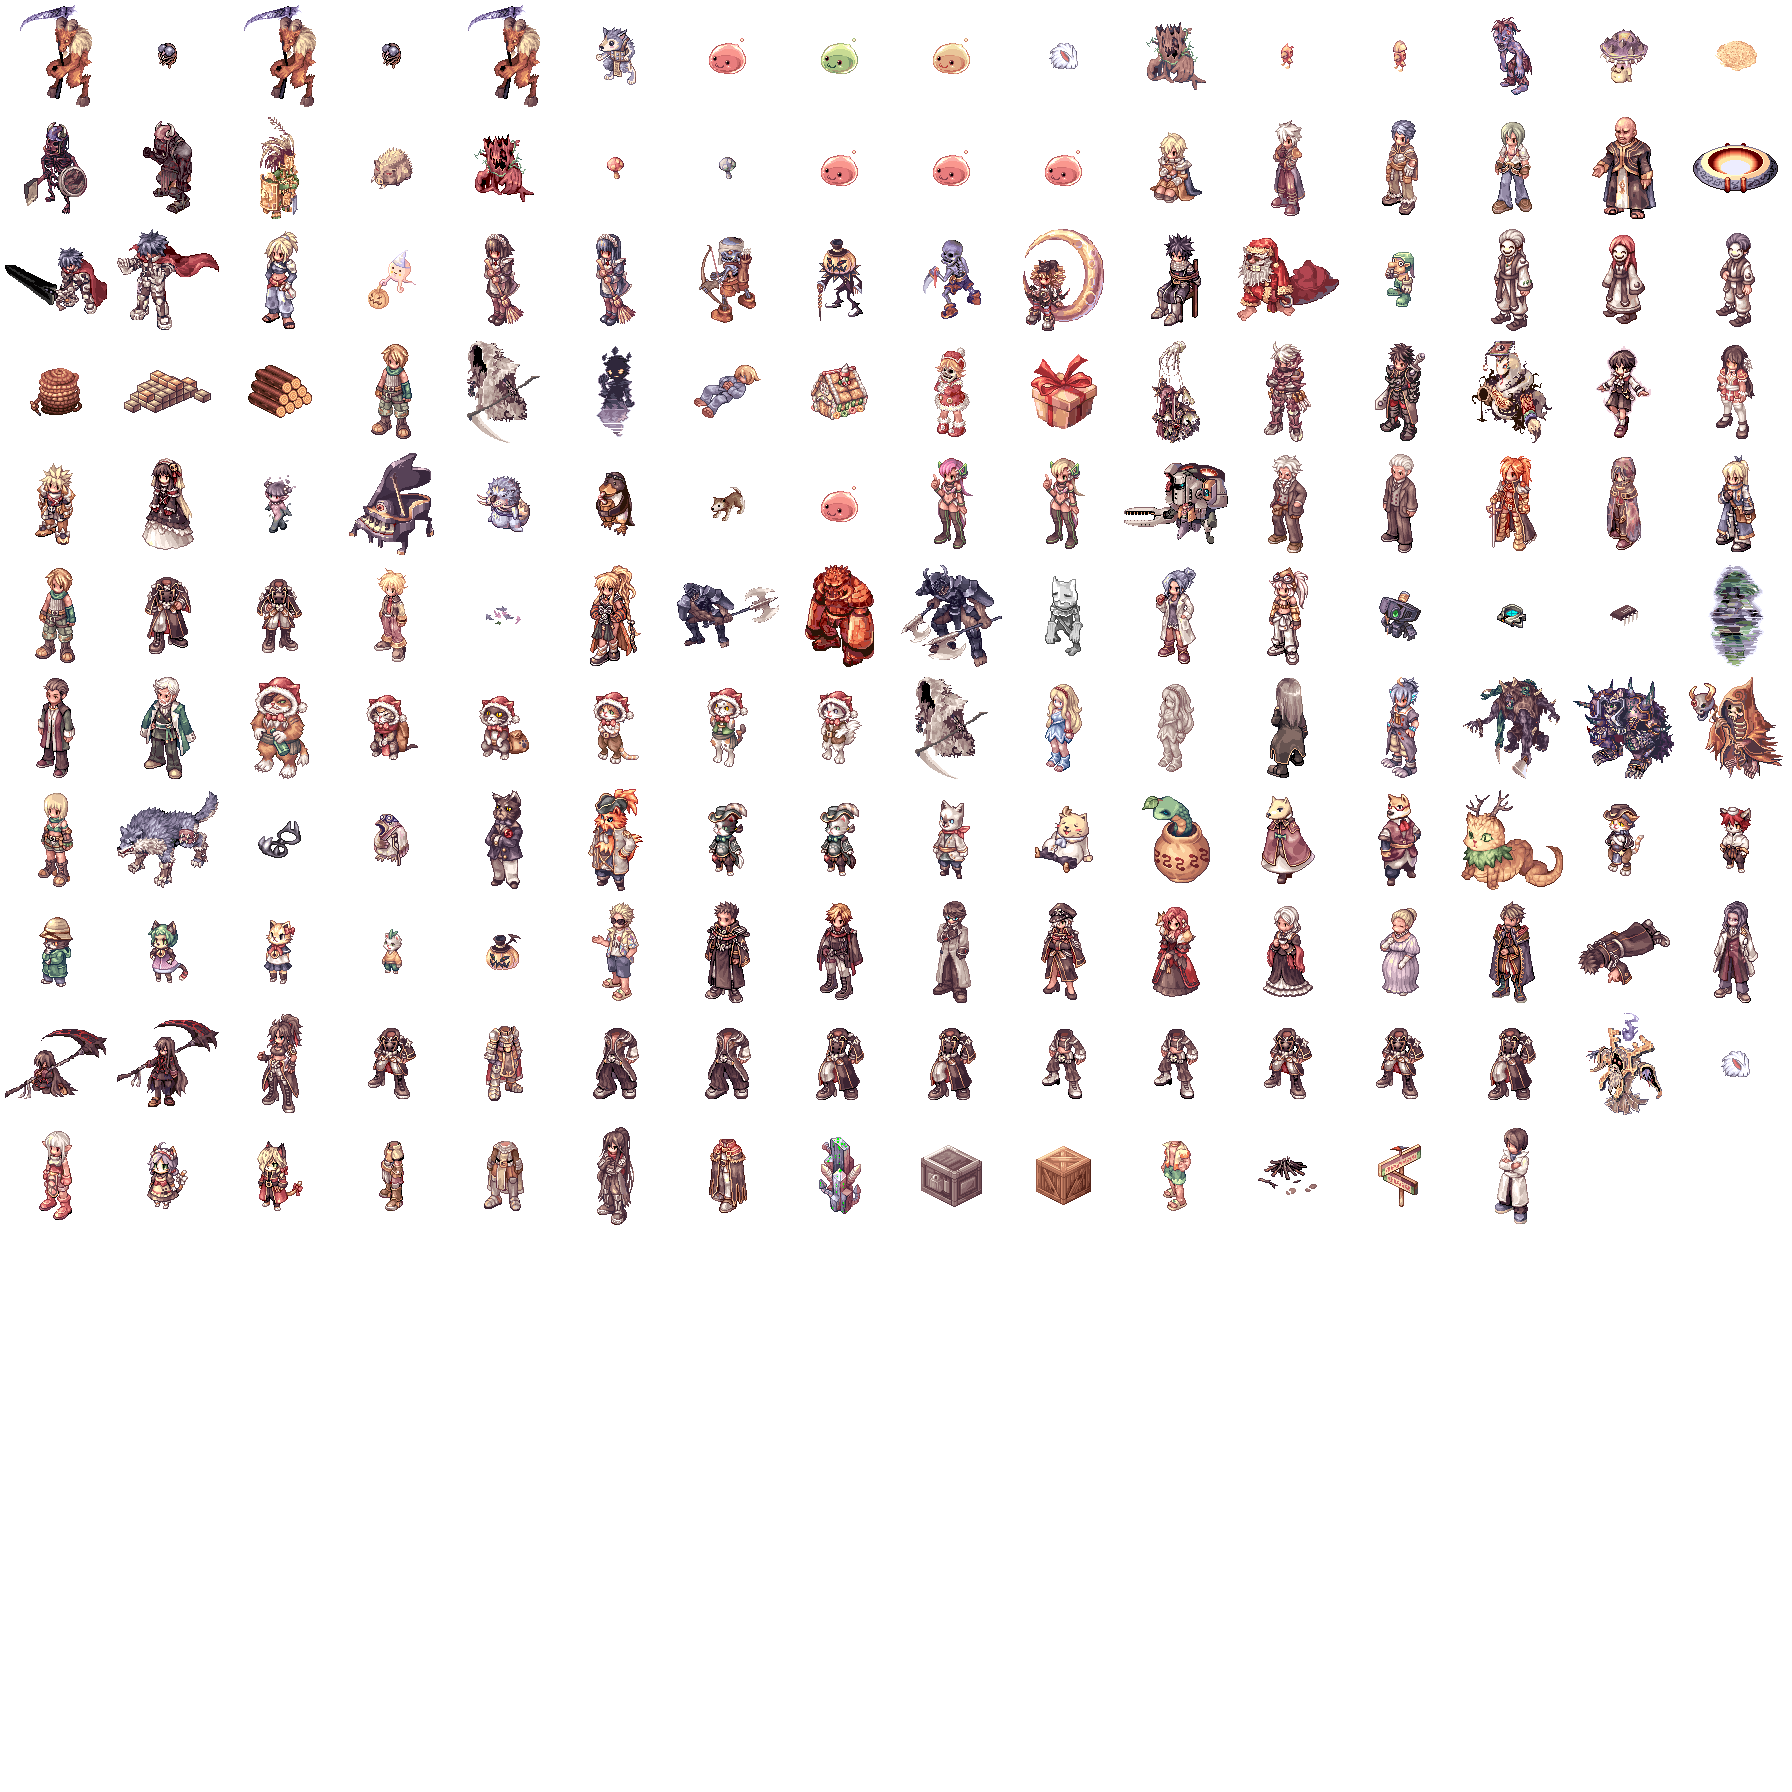
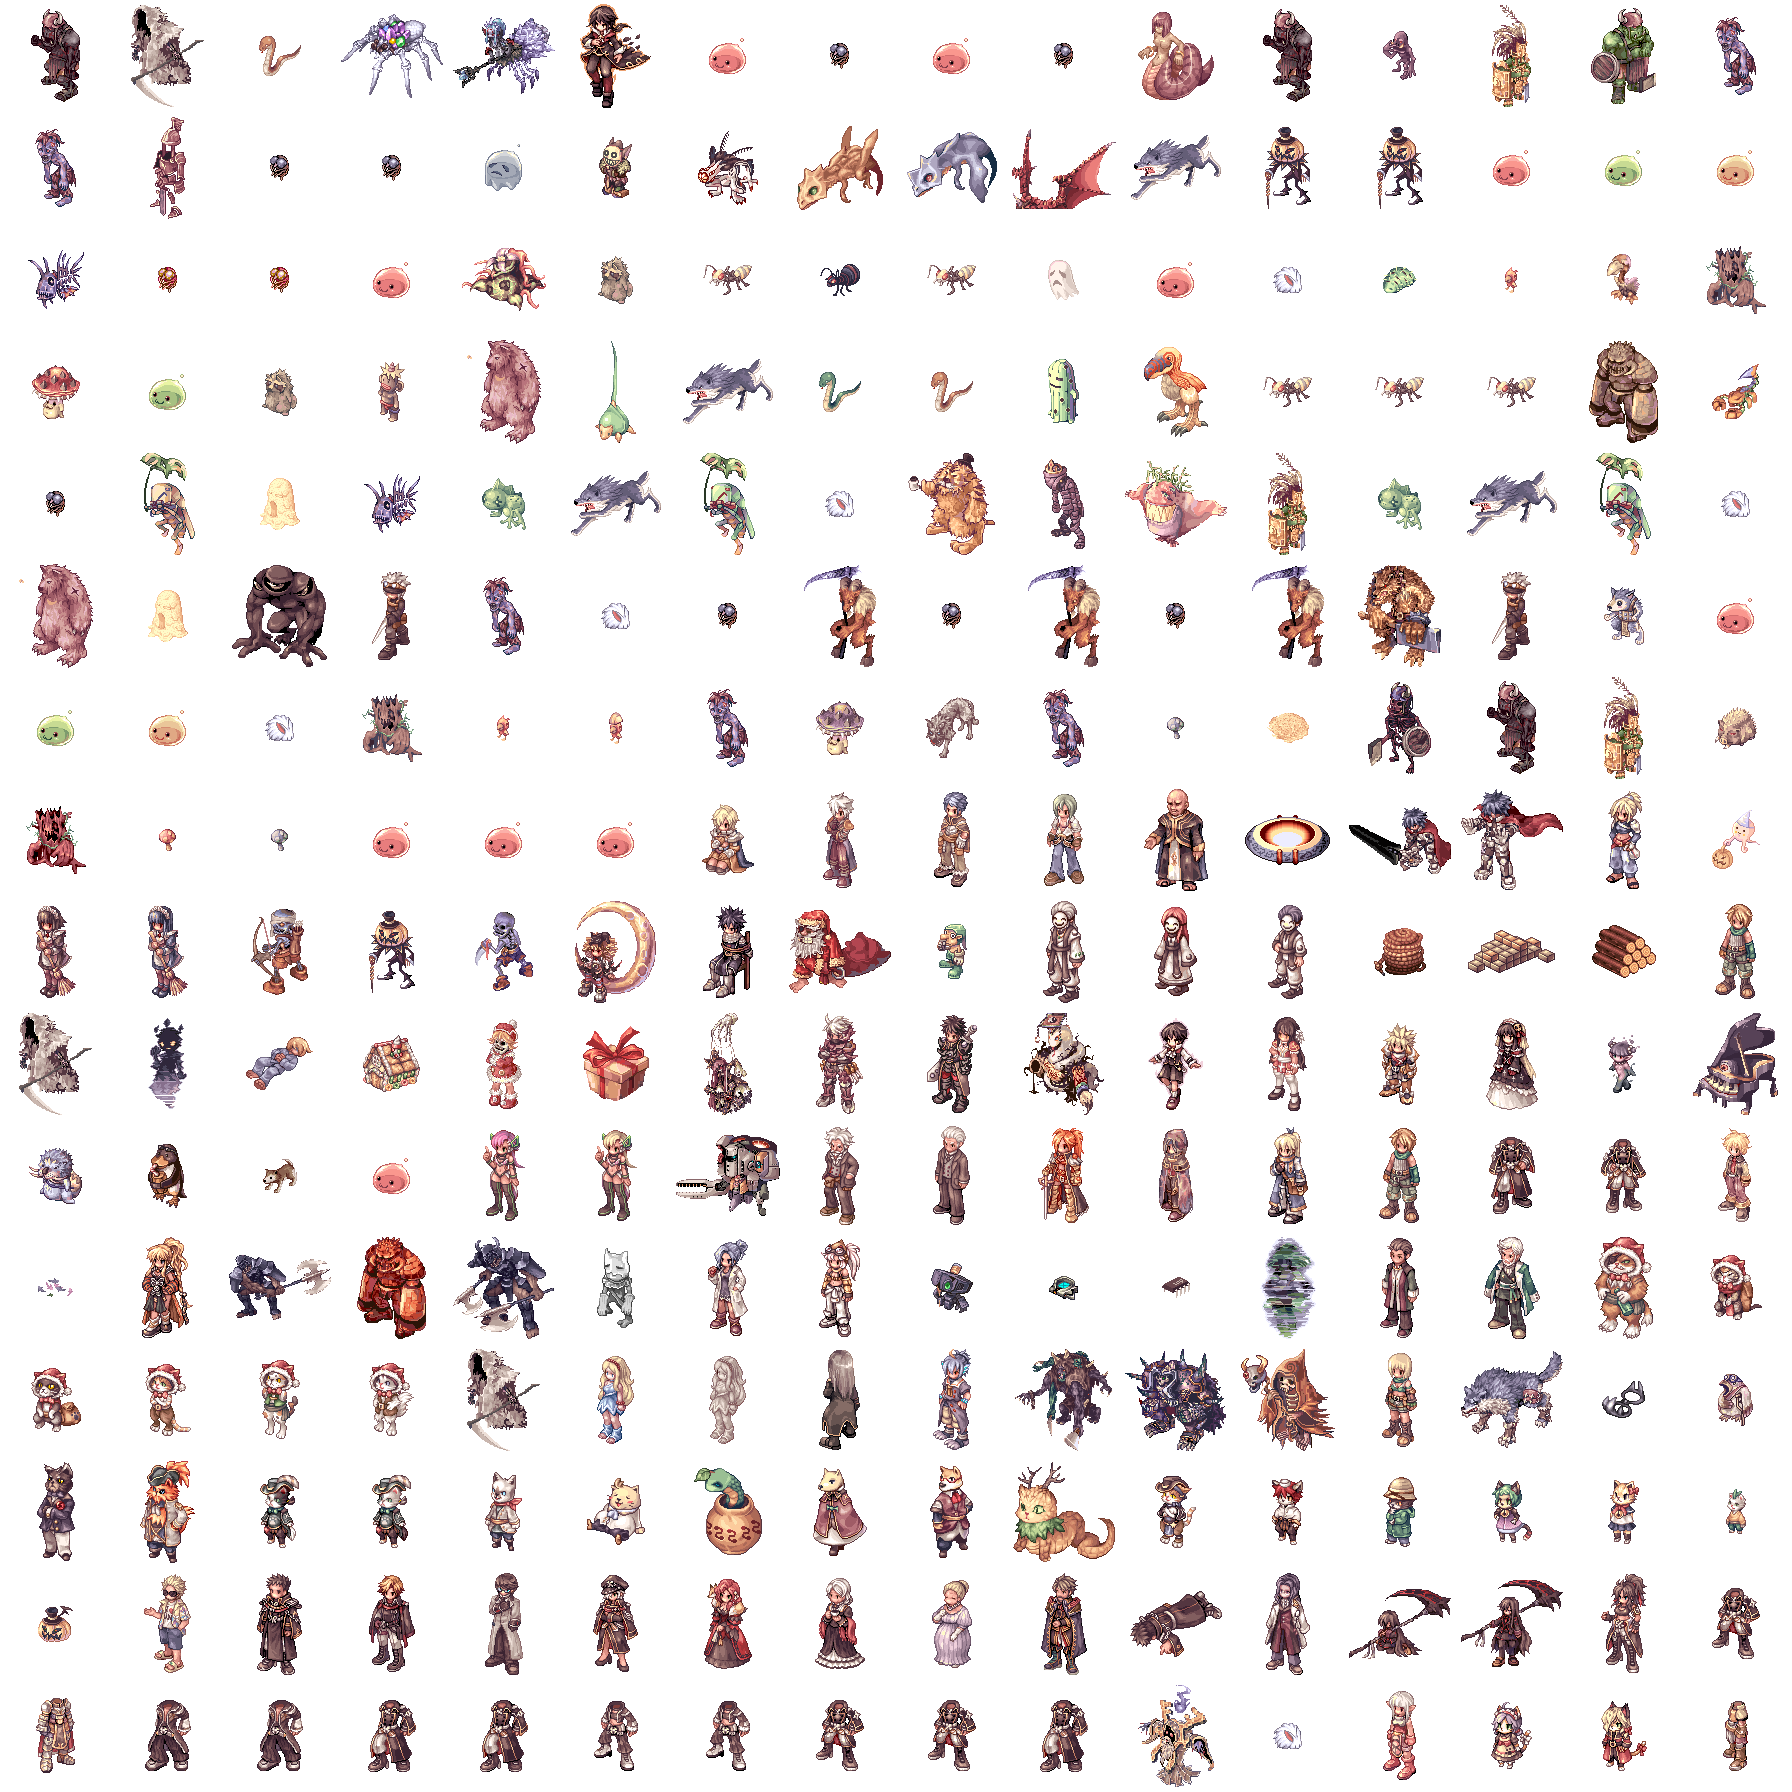
fix(resources): Refresh NPC thumbnail atlases
Original commit messages (chronological):

c33ebae608e691ff44ce73f11062cd43073db6e8
fix(resources): Refresh NPC thumbnail atlases

Changed region(s): [[0.0, 0.0, 1.0, 1.0], [0.9062, 0.8125, 0.9375, 0.8438]]

diff --git a/changelog/2026/10/2026-10-23.md b/changelog/2026/10/2026-10-23.md
@@ -43,3 +43,8 @@
 - `[client]` 桌面右下角新增自动战斗、自动拾取和设置三个常驻按钮，独立启停并显示选中状态与悬停提示；设置窗口仅保留参数，移除重复总开关，拾取保存失败明确提示。
 
 - `[client]` 移除桌面自动战斗和拾取按钮的状态点，战斗图标替换为 Lucide 线框双剑，拾取图标保持原样；开启状态继续通过背景和边框表达。
+
+## 修复
+
+- `[client]` 从已核验离线资源补齐另外 114 种魔物外观 NPC 的目录缩略图，覆盖 427 个 NPC 实例，并同步目录与客户端图集。
+- `[client]` 补齐经典修炼场三只宠物教学小波利共用的 2398 外观缩略图，来源为已校验的 20261023 离线资源包；同步 NPC 目录及客户端图集。
